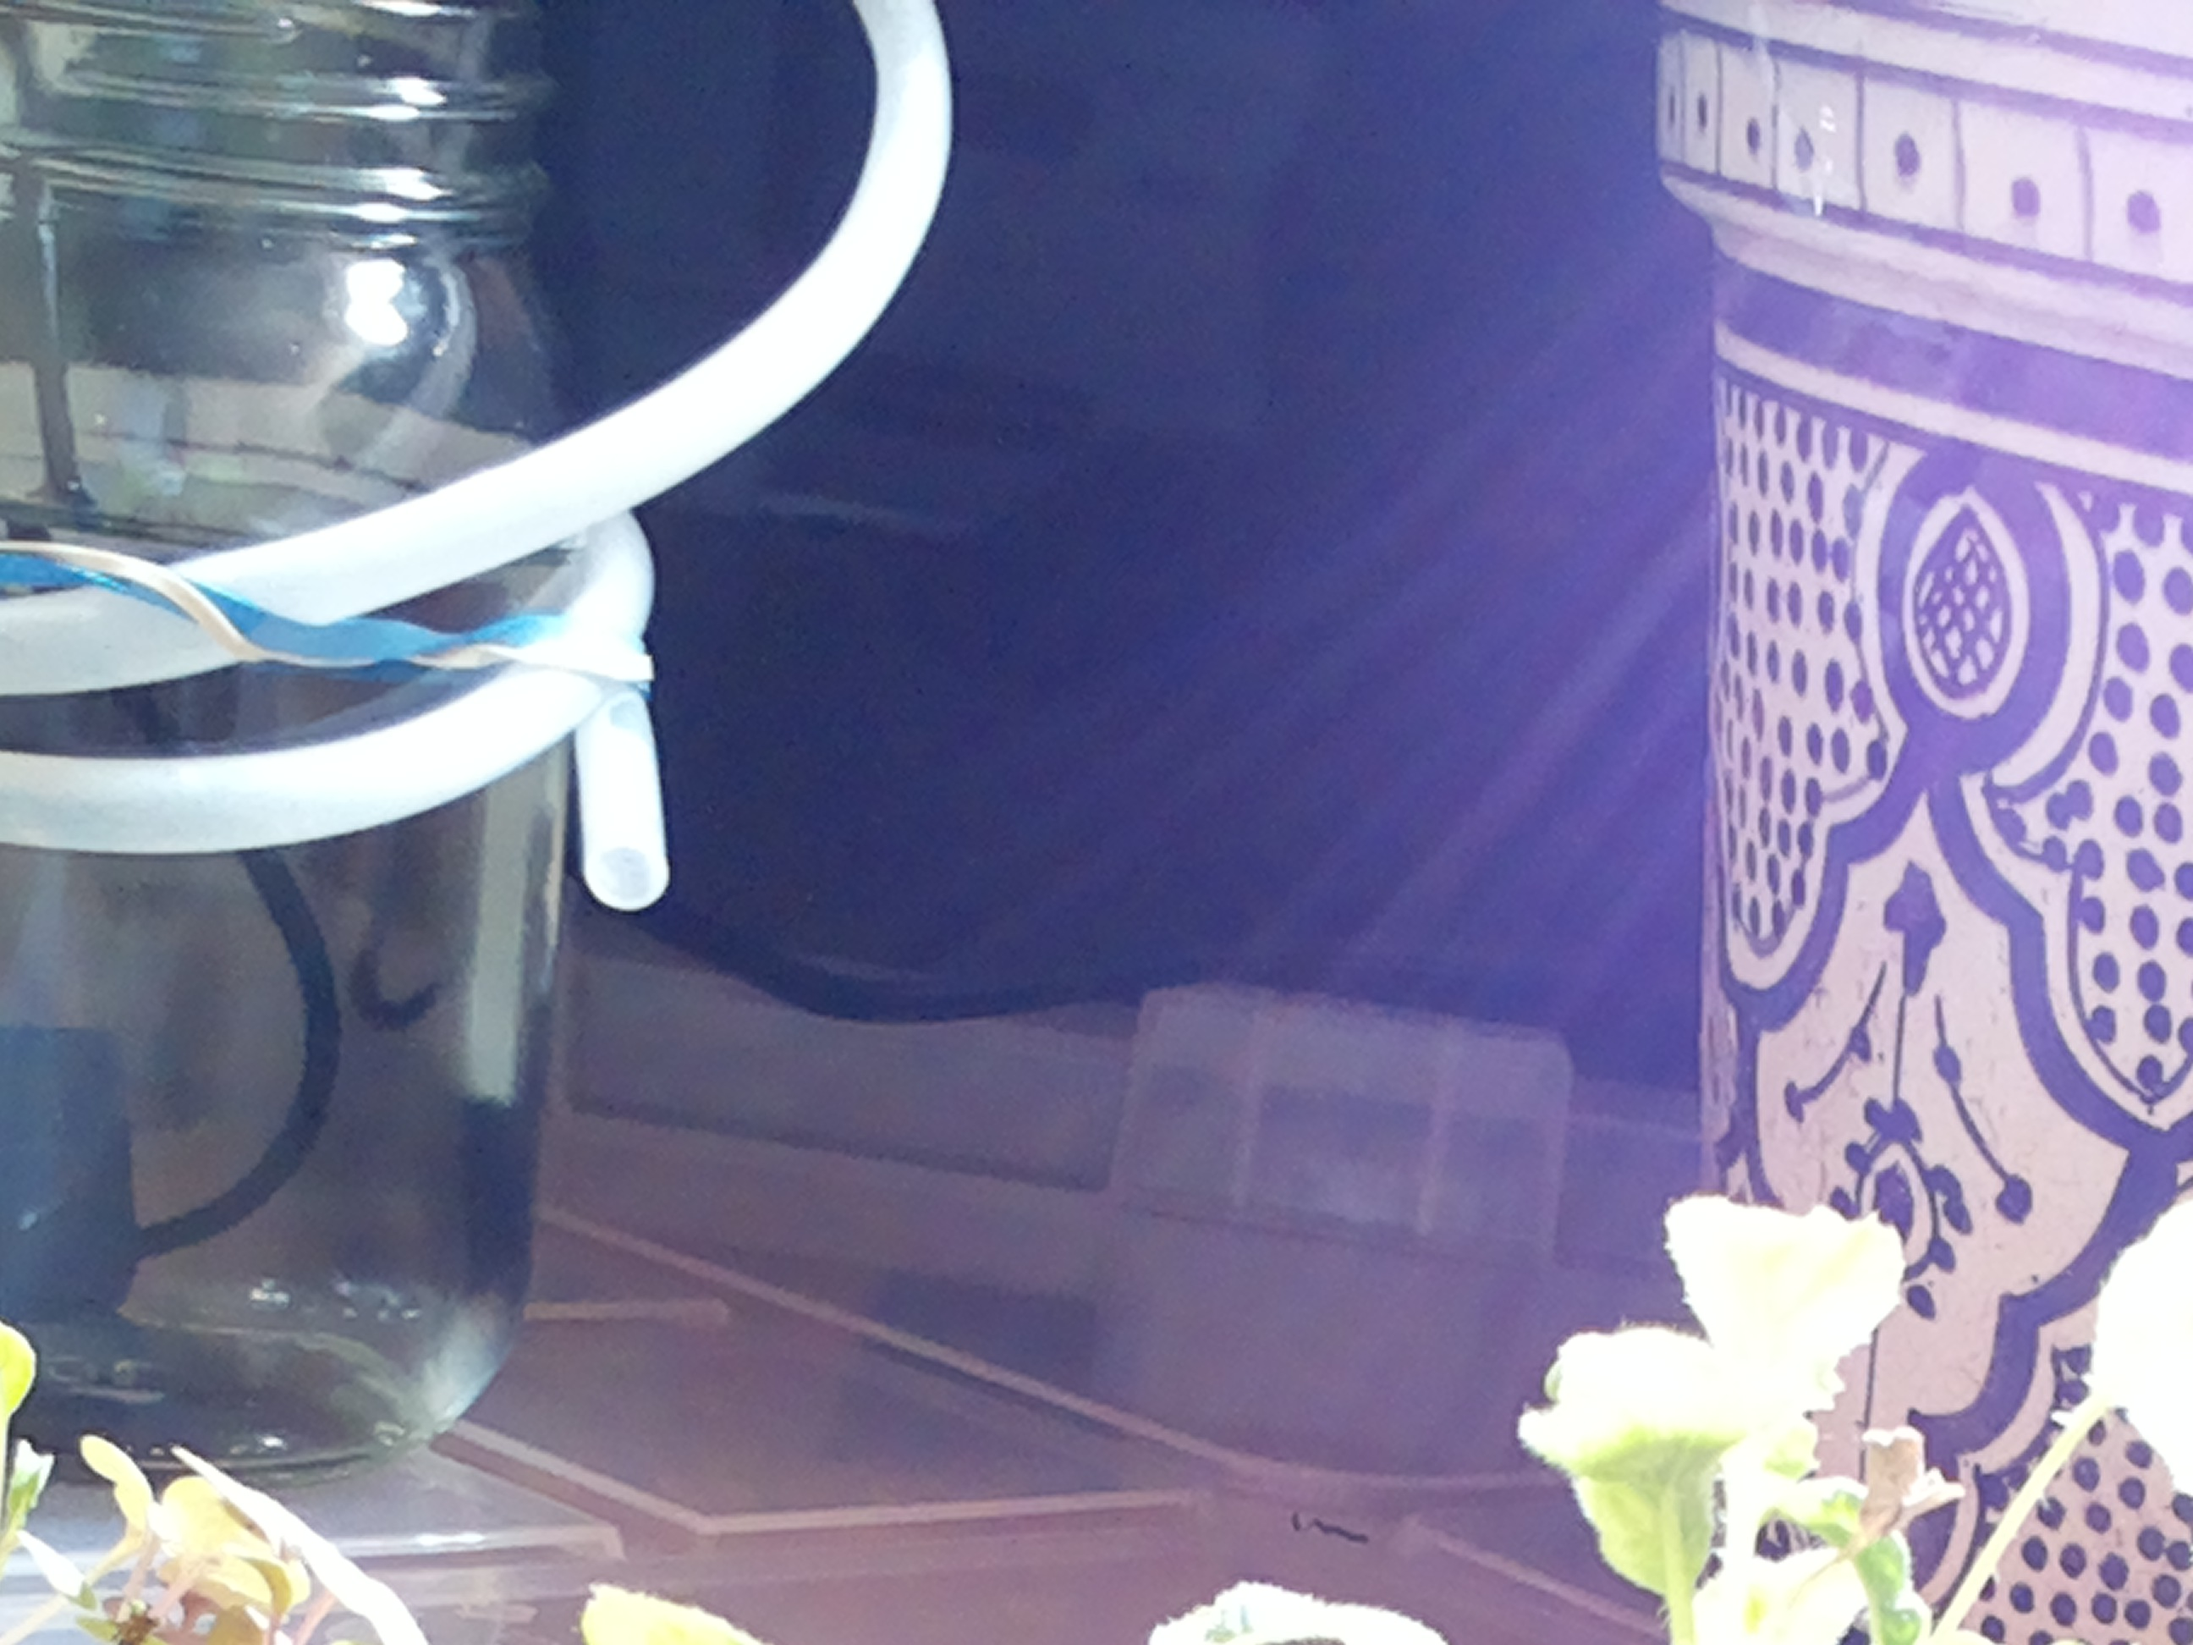
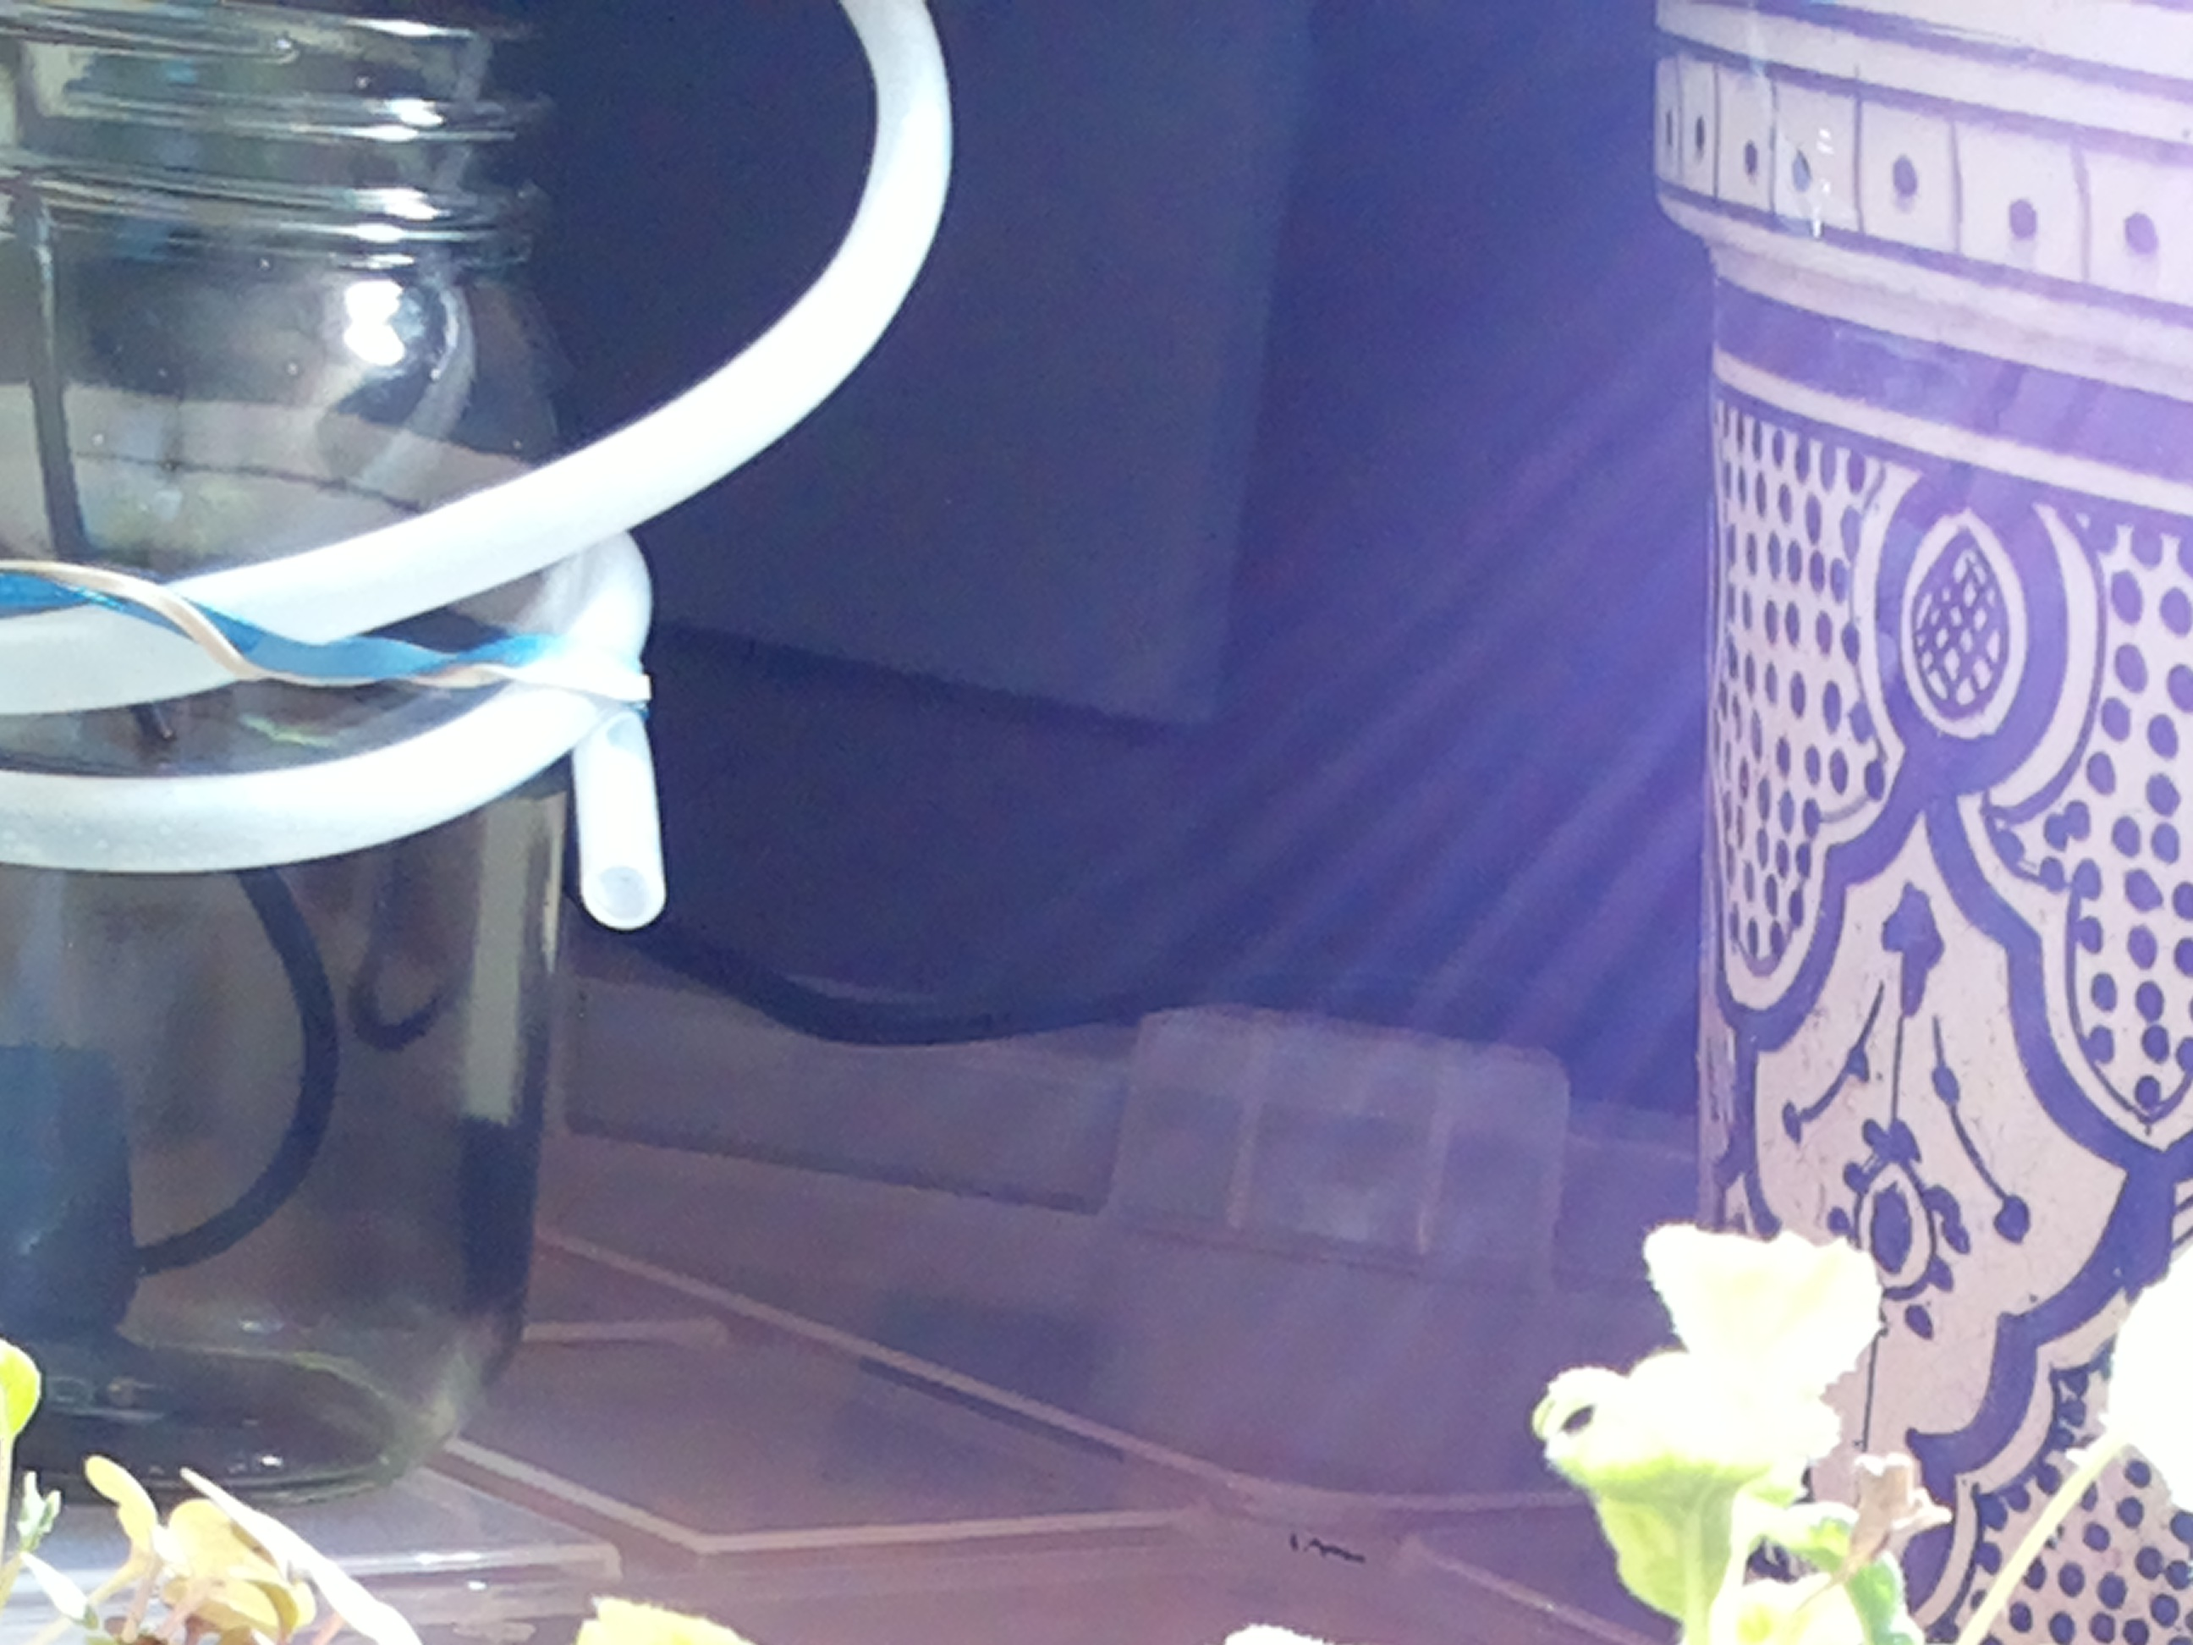
mirror sync 2026-09-29 19:30

diff --git a/home/bubbles/farmer-claude/JOURNAL.md b/home/bubbles/farmer-claude/JOURNAL.md
@@ -732,3 +732,12 @@
 - Lamp: on — correct for photoperiod.
 - Watering: none (observe-only per standing order 2); 4s of 60s daily cap used. Evening 19:22 pulse planned unless surfaces look dark.
 - No changes to standing orders. Still pending: verify lamp-sync.sh fires in logs/cron.log after the next reboot.
+
+### 2026-09-29 19:22 — evening check-in (cron)
+- Standing order 7 check: previous entry was today 13:07 — no gap, cron auth holding.
+- Photo: seedlings green and turgid in all 12 cells (day 36) — true leaves growing, leggy pink splayed stems in the middle cells unchanged per standing order 6 (mechanical; thinning/support still needs a human hand). Pale/whitish cotyledons top-right same as recent days — no spread or shriveling. No wilting, mold, pests, or tipping. Sun/purple flare across the frame as usual.
+- Jar: zoomed photo shows tinted water through the visible glass body with the pump cable submerged — level consistent with recent mid-body readings, pump covered. Tube outlet coiled in place beside the jar pointing down over the lid.
+- Soil: mixed — dark damp centers in the middle cells, drier crumbly patches with pale coir walls elsewhere. Not uniformly dark → pulse warranted.
+- Lamp: on — correct for photoperiod.
+- Watering: 4s pulse per standing order 2 (8s of 60s daily cap used; water.py OK, pump plug verified OFF after).
+- No changes to standing orders. Next: 07:12 pulse unless surfaces look dark. Still pending: verify lamp-sync.sh fires in logs/cron.log after the next reboot.
